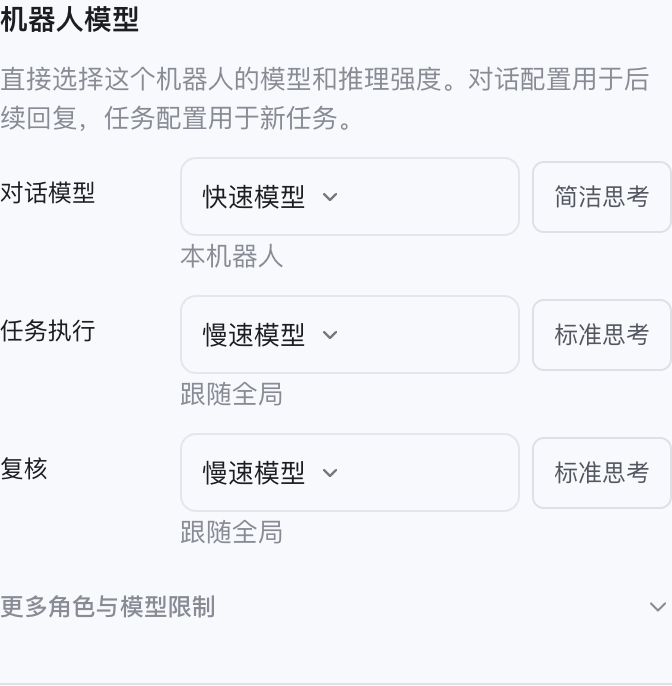
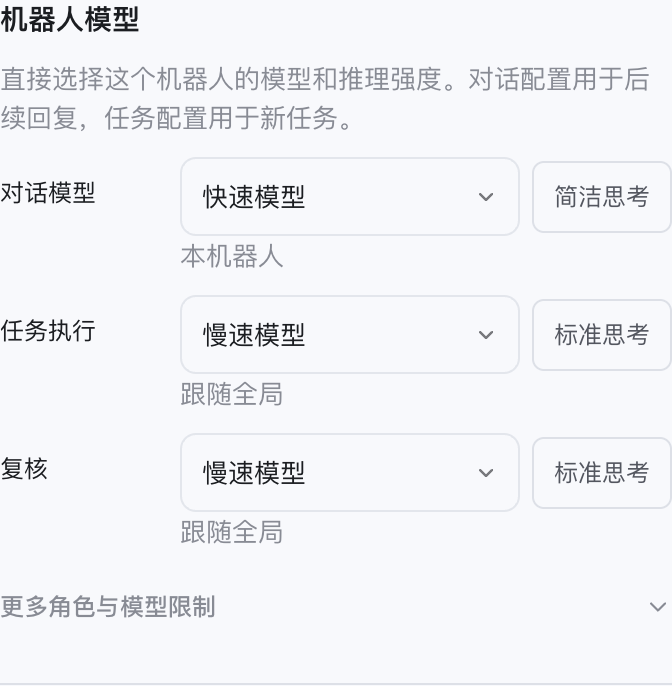
docs: refine archive entry and capture native review evidence

diff --git a/playbook/v0.1.0/acceptance-test-guide.md b/playbook/v0.1.0/acceptance-test-guide.md
@@ -2,7 +2,7 @@
 
 > 当前评测候选：**0.1.0-rc.5**，提交`64d20d3409fe406c3cae4044acff9f8b5a7fe45e`。负责人已要求先发布RC进行详细评测；可按本手册记录结果。复杂写任务的命令描述Evidence快照缺口仍未关闭，不能视为全部Ready；正式版仍等待修复收口、全面测试、七天日用和明确批准。各版本自测范围见[开发者报告](rc-self-test-report.md)。
 
-> **待发布修复的追加用例**：模型选择与推理强度 I11–I15 适用于代码 PR #121（`d22c307a`）之后的候选。当前已发布 RC5 不包含该改动；未发布前可在隔离原生 Demo 评审，不能把结果填为 RC5 通过。
+> **待发布修复的追加用例**：模型选择与推理强度 I11–I15 适用于代码 PR #121（`d22c307a`）之后的候选；档案入口与字段箭头修订从 `51904c50` 起纳入。当前已发布 RC5 不包含这些改动；未发布前可在隔离原生 Demo 评审，不能把结果填为 RC5 通过。
 
 ### 确定版本的下载与校验
 
@@ -301,7 +301,7 @@ A 项目先提交干净基线。准备三个互不重叠文件 a.txt、b.txt、c
 | 编号 | 操作步骤 | 预期与检查点 |
 |---|---|---|
 | I11 | 在 A 输入框点击实际模型名称，直接选另一模型，再拖动强度滑块；打开档案设置核对。切到 B、返回 A，完全退出重启。发一条短请求，核对执行请求的模型 ID 与 effort。 | 不要求跳转全局设置；输入框与档案一致，重启仍保留；B、其他角色和全局目录不变。实际请求与所选值相符，无仅显示标签的假切换。 |
-| I12 | 依次选择档位不同的模型和不支持推理调节的模型；启用本地模型限制、收窄可用模型范围、禁用一条渠道，再打开菜单。用键盘及最小窗口操作。 | 滑块只显示所选模型声明档位；不支持时不出现可调滑块；不兼容旧强度改用新模型默认档。菜单中不合法模型不可选；无效配置明确失败。模型名与强度可读，无横向溢出；Escape 关闭滑块弹层且保留档案。 |
+| I12 | 依次选择档位不同的模型和不支持推理调节的模型；启用本地模型限制、收窄可用模型范围、禁用一条渠道，再打开菜单。用键盘及最小窗口操作；在深浅色中点开、收起右上角档案，检查焦点和字段箭头。 | 滑块只显示所选模型声明档位；不支持时不出现可调滑块；不兼容旧强度改用新模型默认档。菜单中不合法模型不可选；无效配置明确失败。模型名与强度可读，无横向溢出；Escape 关闭滑块弹层且保留档案。完整设置字段名称靠左、箭头靠右；档案入口为 SVG 加文字，展开态可辨，关闭后键盘焦点返回入口。 |
 | I13 | 用 A 的 high 配置开始较长回复；生成期间在档案将后续强度改为 low，观察输入框，等待完成后发新请求。另创建任务并排队，再改工作与复核强度，检查旧任务和新任务快照。 | 生成期间输入框保持本轮 high；设置说明用于后续，新回复实际请求 low。旧任务模型/强度不变，新任务使用新配置；流式输出不因保存设置中断。 |
 | I14 | 分别为对话、工作、复核覆盖模型和强度；逐个恢复继承，再修改全局配置。使用隔离诊断请求提交所选模型不支持的 effort，并同时改名字；重读 profile。 | 恢复继承仅移除该角色的模型/强度，其他覆盖保留；继承字段仍显示实际模型。非法请求返回明确错误，名字和配置均未部分写入；失败保留原值，不能显示成功。 |
 | I15 | 给记忆整理等已展开角色指定可识别的模型与强度，触发真实调用并核对路由记录/请求。用真实云渠道重复 I11、I13；记录故障与耗时。 | 角色策略实际进入已有执行路径。尚无独立路由的压缩不作为可用角色展示。受控 Demo 只能验证参数；真实服务、不同渠道和推理质量必须分别实测，不挪用受控结果。 |
